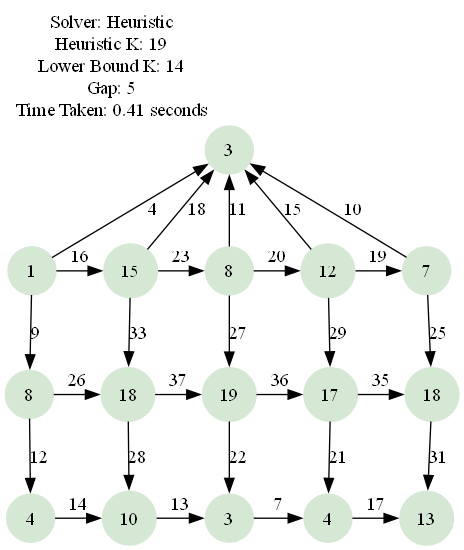
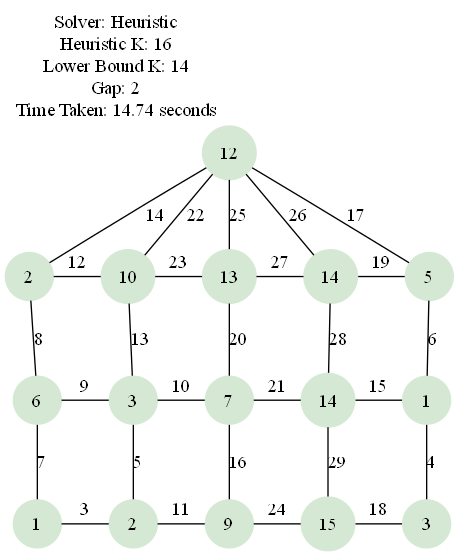
removed directed graph arrows

diff --git a/src/visualization.py b/src/visualization.py
@@ -6,7 +6,7 @@ from pathlib import Path
 from typing import Dict, Any, Tuple
 
 try:
-    from graphviz import Digraph  # type: ignore
+    from graphviz import Graph  # type: ignore
 except ImportError as e:  # pragma: no cover
     raise ImportError("Graphviz python package is required. Install via `pip install graphviz`." ) from e
 
@@ -57,7 +57,8 @@ def visualize_k_labeling(
     dest_path = Path(output)
     dest_path.parent.mkdir(parents=True, exist_ok=True)
 
-    dot = Digraph(format=fmt)
+    # Use an undirected Graph to remove arrowheads in the rendered output.
+    dot = Graph(format=fmt)
     if shaped:
         dot.attr(rankdir="TB")
 
@@ -82,7 +83,8 @@ def visualize_k_labeling(
     if shaped:
         # Create horizontal clusters for each ladder row (row index = first element in tuple vertex)
         # Supports arbitrary number of rows; for the Mongolian Tent graph we expect 3.
-        from graphviz import Digraph as _G
+        # Sub-graphs must match the parent graph type, so we also use Graph here.
+        from graphviz import Graph as _G
 
         # Group vertices by their row index.
         row_to_vertices = {}
@@ -144,5 +146,7 @@ if __name__ == "__main__":  # pragma: no cover
 
     k, labeling = find_optimal_k_labeling(args.n)
     graph = create_mongolian_tent_graph(args.n)
+    if labeling is None:
+        raise RuntimeError("Failed to find a valid labeling to visualize.")
     out = visualize_k_labeling(graph, labeling, output=args.file)
     print(f"Graph rendered to {out.resolve()}") 

diff --git a/ai-docs/enhancments/enhancement_CP-SAT_solver.md b/ai-docs/enhancments/enhancement_CP-SAT_solver.md
@@ -1,5 +1,7 @@
 # Enhancement: CP-SAT Solver for Optimal k-Labeling
 
+Only good for providing proof, takes significantly longer to run. Also requires specific version of python(Python 3.11)
+
 ## 1 · Motivation / Problem Statement
 
 Our current toolkit offers two solvers:
